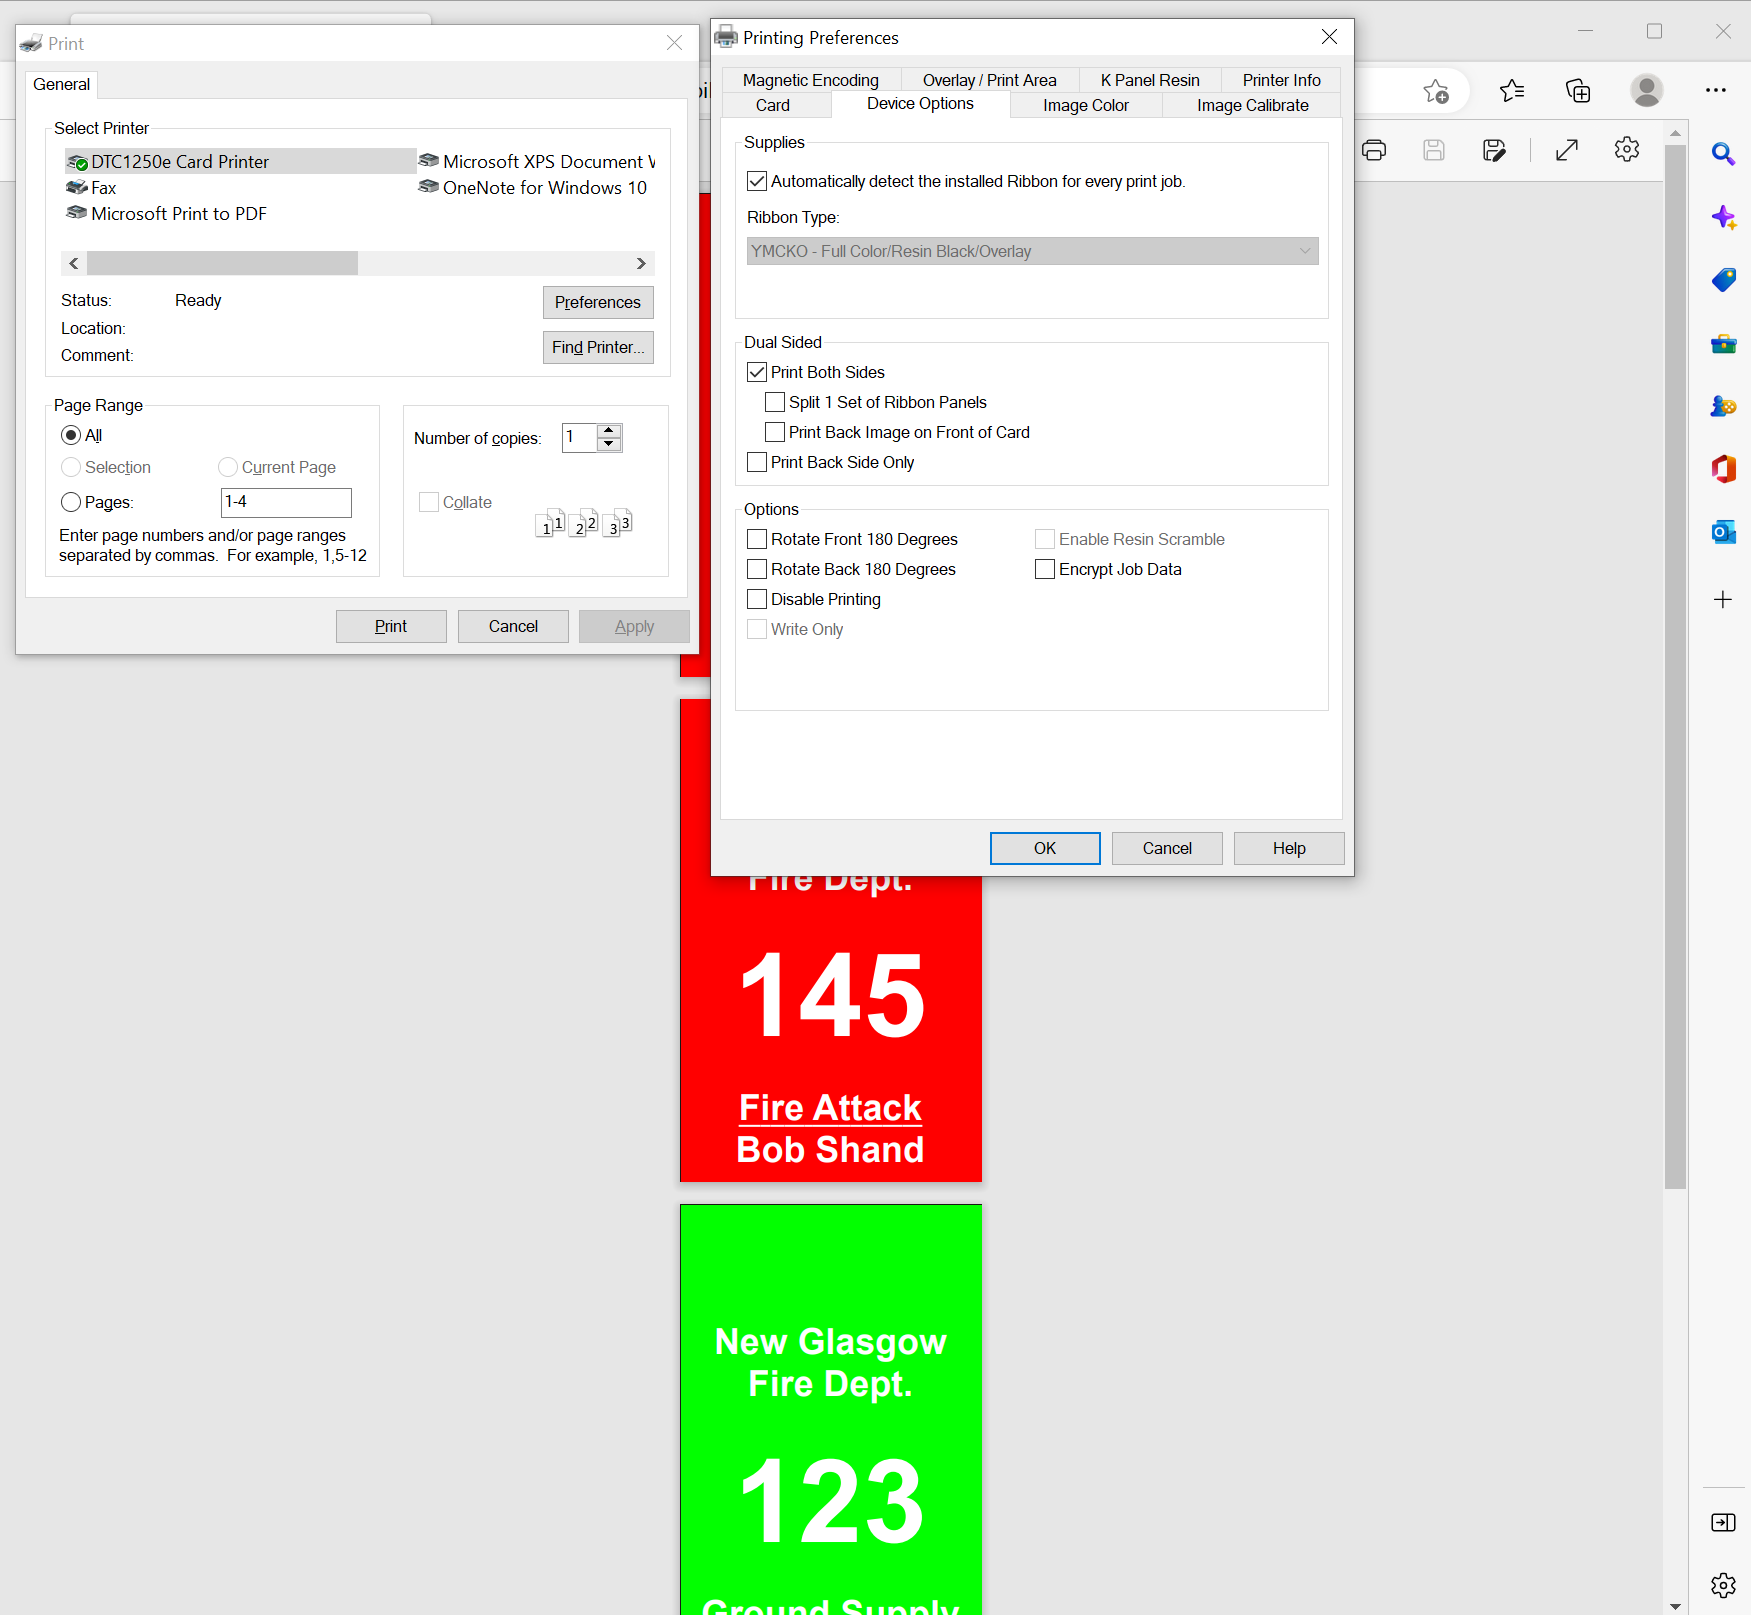
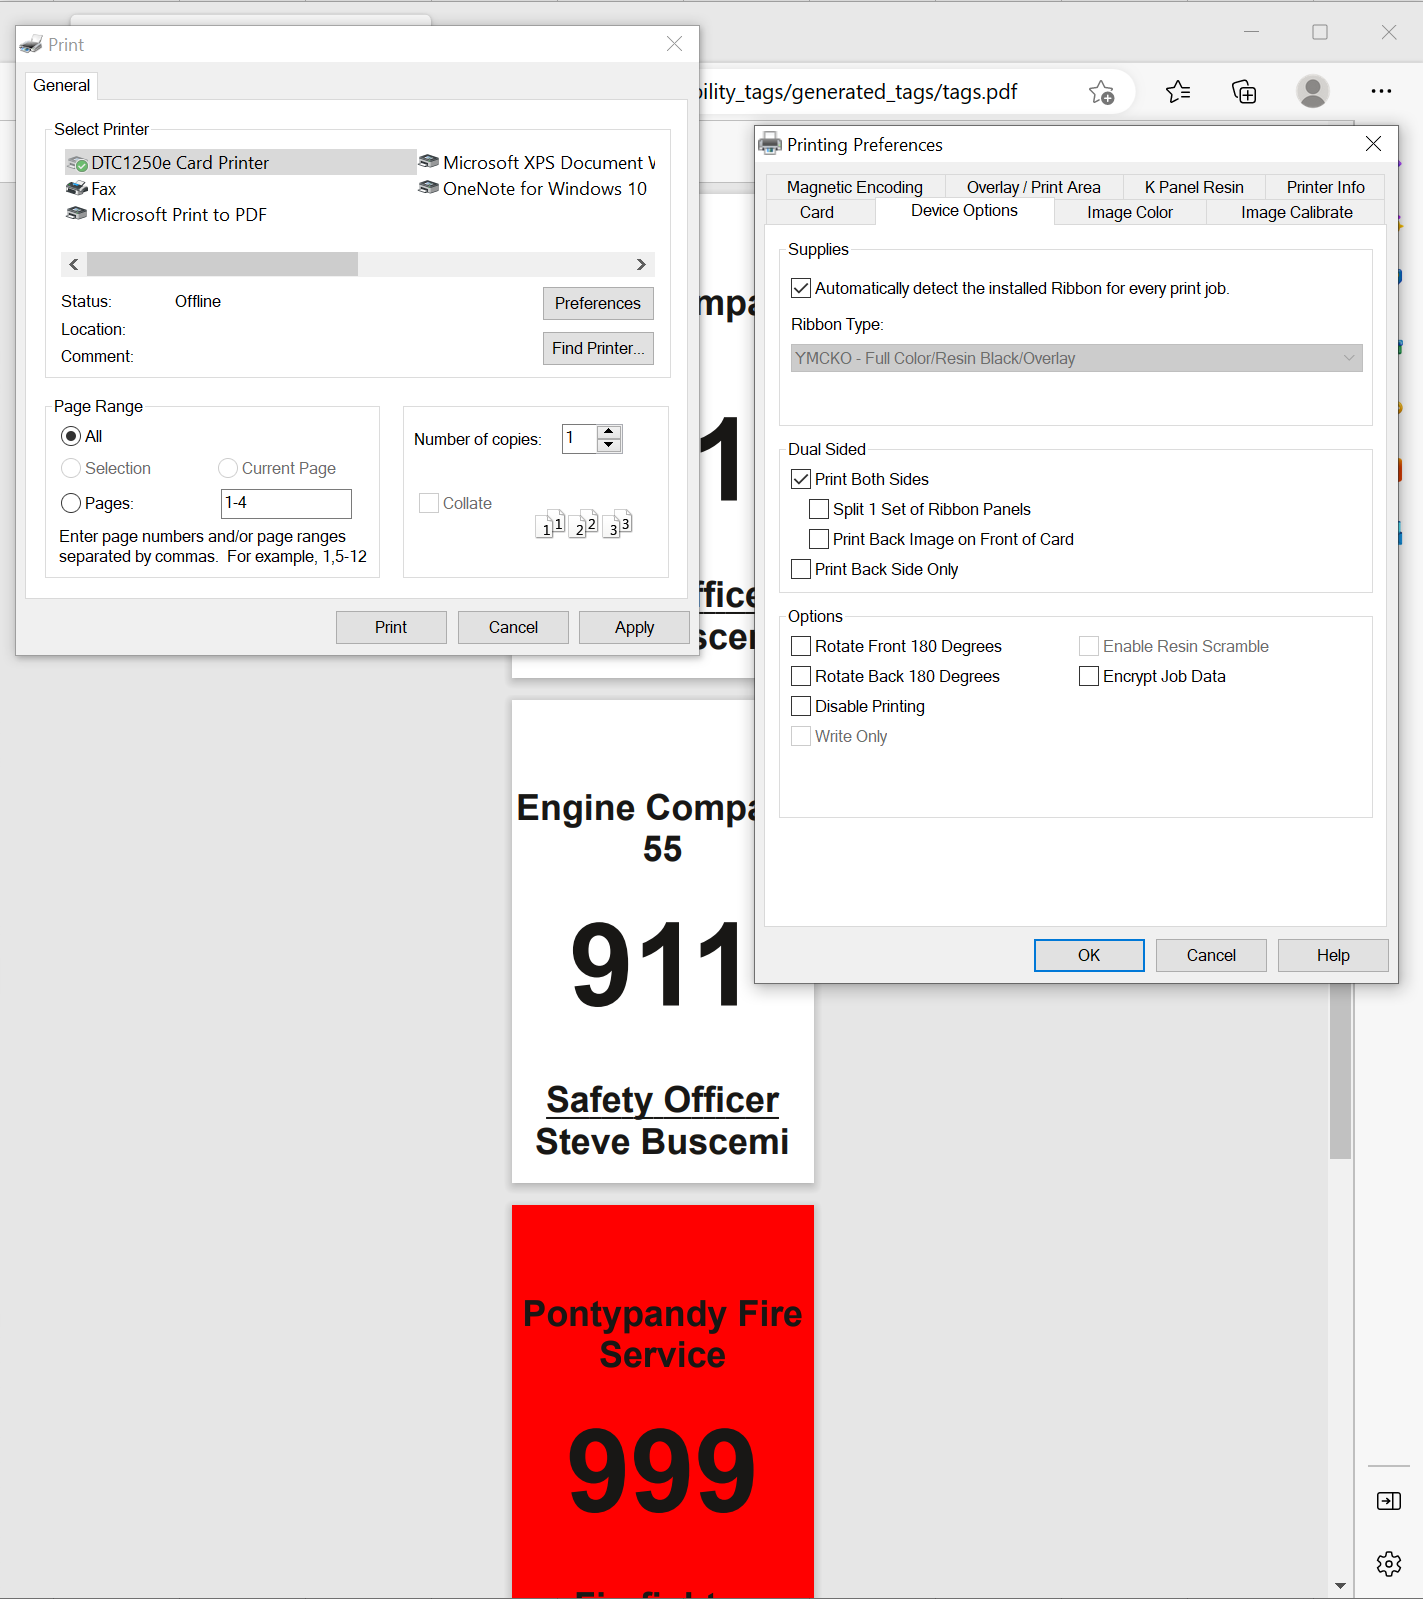
Update the documentation with the department info and updated references to the files

Changed region(s): [[0.0, 0.0, 0.9895, 1.0], [0.9276, 0.9193, 0.9895, 1.0]]

diff --git a/README.md b/README.md
@@ -10,24 +10,24 @@ This repository is a simple templated accountability tag system for small fire d
 
 ## Usage
 
-Edit the `NGFD.csv` with your favourite CSV editor such as Excel, to add the required details for the tags that need to be created.
+Edit the `tags_to_generate.csv` with your favourite CSV editor such as Excel, to add the required details for the tags that need to be created.
 
-| name       | number | role           | badge_colour | text_colour |
-| ---------- | ------ | -------------- | ------------ | ----------- |
-| Bob Shand  | 145    | Fire Attack    | Red          | White       |
-| Ms Support | 123    | Ground Support | Green        | White       |
-| Mr Safety  | 321    | Safety Officer | White        | Black       |
+| department              | name          | number | role           | badge_colour | text_colour |
+| ----------------------- | ------------- | ------ | -------------- | ------------ | ----------- |
+| Engine Company 55       | Steve Buscemi | 911    | Safety Officer | White        | Black       |
+| Pontypandy Fire Service | Samuel Jones  | 999    | Firefighter    | Red          | Black       |
+|                         |               |        |                |              |             |
 
-Double click the `generate_NGFD.bat` file - it will execute the required commands and generate `NGFD_tags.pdf`
+Double click the `generate_tags.bat` file - it will execute the required commands and generate `tags.pdf` in the `generated_tags` folder
 
 ![tags.png](docs/images/tags.png)
 
-Open the `NGFD_tags.pdf` in any PDF reader and Print it. Be sure to set the printer to print Double Sided
+Open the `tags.pdf` in any PDF reader and Print it. Be sure to set the printer to print Double Sided
 
 ![printerSettings.png](docs/images/printerSettings.png)
 
 ## Credits
 
-@feralbob - Bob Shand - [New Glasgow Fire Department, PE](https://www.facebook.com/www.ngfd.ca/)
+[@feralbob - Bob Shand](https://github.com/feralbob/) - [New Glasgow Fire Department, PE](https://www.facebook.com/www.ngfd.ca/)
 
-@kmac5 - Kevin MacPhail - [North River FIre Department, PE](http://nrfd.ca/)
+[@kmac5 - Kevin MacPhail](https://github.com/kmac5/) - [North River Fire Department, PE](http://nrfd.ca/)
